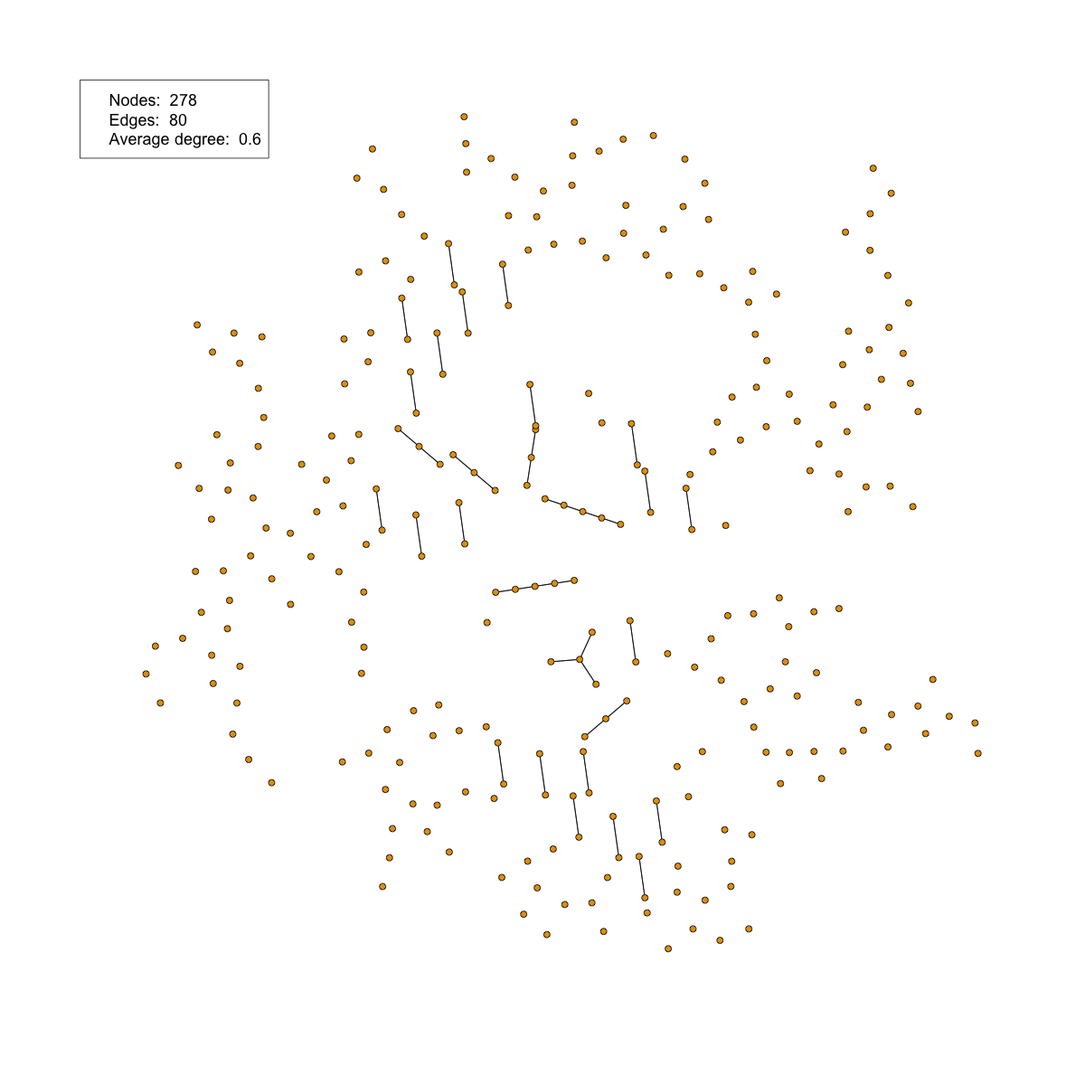
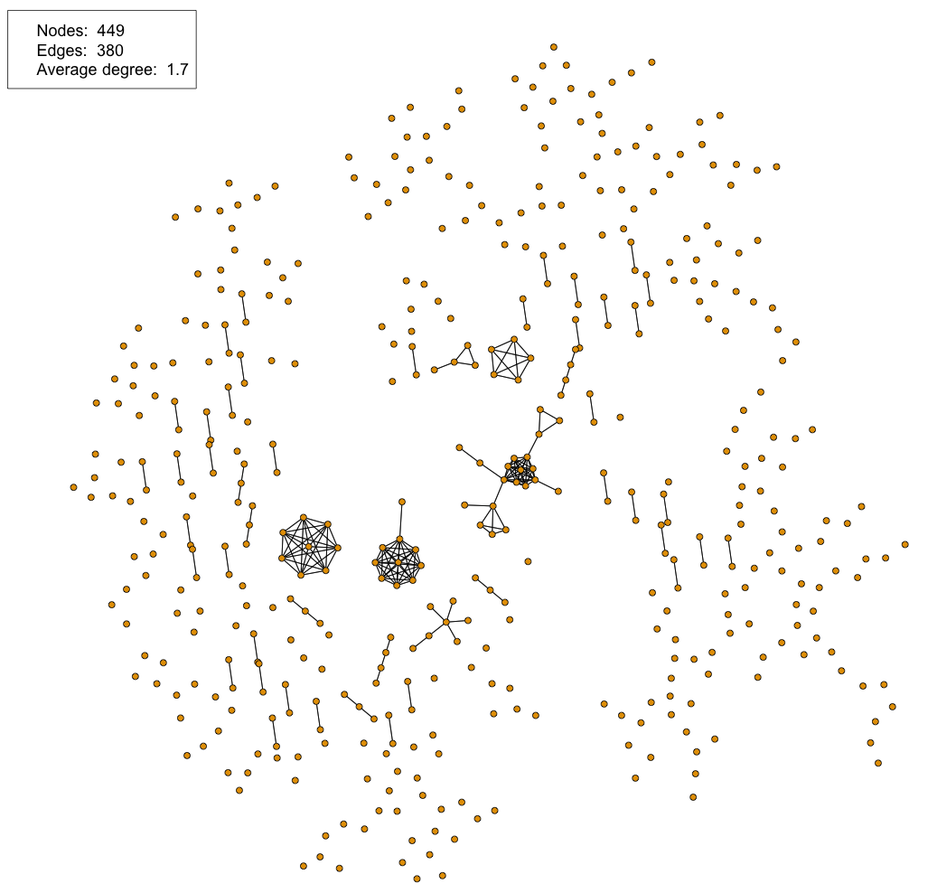
draft v0.1

diff --git a/inc/results.tex b/inc/results.tex
@@ -1,14 +1,14 @@
 \chapter{Results}
 \label{chap:results}
 
-In this chapter we will present our results from analyzing the data in the blockchain using the methods described in \cref{chap:metodology}.
+In this chapter we will present our results from analyzing the data in the blockchain using the methods described in \cref{chap:metodology}. 
 Bitcoin has a testnet used for development and testing of experimental functionality, which the LN have been tested on for longer than it has been used on the mainnet. We have used both the testnet and the mainnet in the project; our reasoning for this is the LN on the testnet is larger, and people are testing a wide array of use cases, and functionality using testnet coins without any value; on the mainnet users have Bitcoin with value, perhaps resulting in more realistic user behaviour which could impacts the data generated.
 By using both Bitcoin networks we will have one with more edge cases and more data, and one containing data more accurately reflecting normal user behaviour.
-The testnet has its own blockchain which is publicly available in the same manner as the mainnet blockchian. Collecting data from the LN as discussed in \cref{sec:ln_analysis} was done in two intervals of one week each. Creating a snapshot of the network on each block for a week results in about 1000 blocks worth of data. This should be sufficient to verify our methods of identifying relevant LN transactions, and doing this twice allowed us to make adjustments after the results of the first interval.
+The testnet has its own blockchain which is publicly available in the same manner as the mainnet blockchian. Collecting data from the LN as discussed in \cref{sec:ln_analysis} was done in two intervals of one week each. Creating a snapshot of the network on each block for a week results in about 1000 blocks worth of data. This should be sufficient to verify our methods of identifying relevant LN transactions, and doing this twice allowed us to make adjustments after the results of the first interval. 
 
 \section{Method verification with LN data}
 
-Comparing data from the LN with our data from the blockchain, provided us with results about the extent our identification methods was able to locate LN channels on the blockchain and to which degree. There was three sets of data was used in these comparisons: 
+Comparing data from the LN with our data from the blockchain, provided us with results about the extent our identification methods is able to identify LN channels on the blockchain. There was three sets of data was used in these comparisons: 
 \begin{itemize}
     \item The set \( \alpha \) , containing channels from the LN closed during the capture interval. 
     \item The set \( \beta \), containing channels from the blockchain identified using timelocked redeem scripts,
@@ -59,13 +59,19 @@ We mentioned in \cref{subsec:information_ln} how using the fact that on-chain LN
 
 While the unspent output count provides a concrete upper limit on the number of channels and therefore size of the LN, also wanted to know to which degree the amount of unspent P2WSH transactions was correlated to the size of the LN. It is clear that changes in the size of the LN will impact the number of P2WSH outputs/inputs, but there might be many other transactions not related to the LN having a larger impact. From the data we collected from the LN itself we constructed a channel count for each blockheight in the collection interval. Similarly we extracted the same block interval with the P2WSH output count from the blockchain. These two variables allowed us to compare the changes of number of channels in the LN and number of unspent P2WSH outputs. We used Kendall rank correlation coefficient \todo{check} on this data for the mainnet, which gave us a correlation coefficient of 0.73 indicating a strong positive correlation. The scatterplot for this can be seen in \cref{fig:correlation}.
 We did the same for the testnet data which resulted in a coeficient of 0.45 which is only a moderate correlation. Both tests had the same p value: p < 2.2e-16.
-\todo{include scatterplot for testnet?}
 
-\begin{figure}[t]
+\begin{figure}[ht]
     \centering
-    \includegraphics[width=10cm]{figures/graphs/channel_p2wsh_correlation_mainnnet.png}
+    \includegraphics[width=8cm]{figures/graphs/channel_p2wsh_correlation_mainnnet.png}
     \caption{Correlation between unspent P2WSH outputs and channels open in the LN}
     \label{fig:correlation}
+\end{figure}
+
+\begin{figure}[ht]
+    \centering
+    \includegraphics[width=8cm]{figures/graphs/channel_p2wsh_correlation_testnet.png}
+    \caption{Correlation between unspent P2WSH outputs and channels open in the LN}
+    \label{fig:correlation_testnet}
 \end{figure}
 
 
@@ -74,22 +80,20 @@ We did the same for the testnet data which resulted in a coeficient of 0.45 whic
 Using our software and the timelocked redeem scripts method for identifying channels we have parsed the blockchain on both mainnet and the testnet to the point before any P2WSH transactions and therefore channels. The result of this is data about every unilaterally closed channel that has existed. Statistics about the channels we identified can be found in \cref{subgraph_stats}. This include the number of channels fund and stats about their value and lifetime. The value of the channels is given in satoshis, with 100,000,000 satoshis being one Bitcoin. The One clear difference between the mainnet and testnet is the value used for each channel, as we briefly mentioned before coins on the testnet has no value to people, so it would be natural that they are more liberal when creating channels. 
 \\
 
-COMMENT: in table below i also have the same data from LN collection, so i can add in extra column so we can see if the stats are similar for bc data and ln.
-
 \begin{table}[]
 \centering
 \caption{Value and lifetime for channels}
 \label{subgraph_stats}
-\begin{tabular}{|l|c|c|}
+\begin{tabular}{|l|c|c|c|c|}
 \hline
-                                             & \textbf{Mainnet} & \textbf{Testnet} \\ \hline
-\textbf{Total channels found}                & 3 400            & 7 755            \\ \hline
-\textbf{Average Channel value}               & 412 647          & 7 000 458        \\ \hline
-\textbf{Median channel value}                & 100 000          & 5 000 000        \\ \hline
-\textbf{Standard Deviation Channel value}    & 1 296 102        & 7 096 572        \\ \hline
-\textbf{Average channel lifetime}            & 1 438            & 2 282            \\ \hline
-\textbf{Median channel lifetime}             & 602              & 396              \\ \hline
-\textbf{Standard Deviation channel lifetime} & 2 017            & 5 545            \\ \hline
+                                             & \textbf{Mainnet} & \textbf{LN Mainnet}& \textbf{Testnet} & \textbf{LN testnet} \\ \hline
+\textbf{Sample size (channels)}                & 3 778            & 3 400           & 7 755               & 251            \\ \hline
+\textbf{Average Channel value}               & 412 647          & 412 647         & 7 000 458            &7 758 942       \\ \hline
+\textbf{Median channel value}                & 100 000          & 100 000         & 5 000 000            & 5 000 000        \\ \hline
+\textbf{Standard Deviation Channel value}    & 1 296 102        & 1 296 102       & 7 096 572            & 7 191 958        \\ \hline
+\textbf{Average channel lifetime}            & 1 438            & 1 438           & 2 282                & 1 269            \\ \hline
+\textbf{Median channel lifetime}             & 602              & 602             & 396                  & 312              \\ \hline
+\textbf{Standard Deviation channel lifetime} & 2 017            & 2 017           & 5 545                & 4 059            \\ \hline
 \end{tabular}
 \end{table}
 
@@ -97,7 +101,6 @@ In \cref{channel_input_output} we see the distribution for the number of inputs 
 This difference is also present when we checked how many channels had the same number of inputs as outputs. On the mainnet 60\% of channels found have the same number of inputs as outputs, while on the testnet this is 49\%. 
 \\
 
-COMMETN: planning on adding something about HTLC's. This would impact outputs of channels to give more meaning to these stats.
 \begin{table}[]
 \centering
 \caption{Percentages of input - output count for channels}
@@ -116,23 +119,81 @@ COMMETN: planning on adding something about HTLC's. This would impact outputs of
 \end{tabular}
 \end{table}
 
-\section{Clustering}
+\section{Linking}
 
-COMMENT: Below is the channel network graph from ln and the same graph created by linking channels found on the blockchain.
-Results in blockchain graph is wrong, so will update when software method is fixed.
+We also implemented the linking methods using the heuristics described in \cref{sec:linking}, allowing us to test their effectiveness.
+The linking was done, both on the set of channel graphs found during the LN collection intervals, and the total set of channels found when parsing the blockchain. In \cref{key_reuse_table} we can see the findings with regards to key reuse, when checking the entire set of channels on testnet and mainnet. Using the 3 778 channels we found on the mainnet, we extracted a total of 26270 unique keys, with 1471 or 5.5\% of these found multiple times. These keys combined where reused 3 062 times, which if the key reuse was evenly distributed in regards to the channel graphs, each channel graph would have 0.8 keys used in another channel graph. We have similar results for the testnet, where 7.2 of the keys found where reused, and 0.9 reused keys per channel graph. As discussed in \cref{sec:linking} regarding key reuse: key reuse within the same channel graph does not let us allow to link channels, but our results below does not take this into account, as we will address it later in this section.
 
-will also add table contaning number of channels linked, how many where linked using which heuristic, prevelance of key reuse, and talk about some outliers.
+\begin{table}[ht]
+\centering
+\caption{Key reuse in channel graphs}
+\label{key_reuse_table}
+\begin{tabular}{|l|c|c|}
+\hline
+                                                   & \textbf{Mainnet} & \textbf{Testnet} \\ \hline
+\textbf{Unique Keys found}                         & 26270          & 47182            \\ \hline
+\textbf{Unique keys reused}                        & 1471               & 3407             \\ \hline
+\textbf{Instances of key reuse}                    & 3062             & 7565             \\ \hline
+\textbf{Maximum number of reuses for a single key} & 23               & 171              \\ \hline
+\textbf{Average reuse of keys}                     & 2              & 2.2              \\ \hline
+\end{tabular}
+\end{table}
 
-\begin{figure}[h]
+We also used the two other heuristics on the channel sets, finding how many channels we where able to link using these. The results of this is shown in \cref{table:connections}. For heuristic one, where we found directly connected graphs trough outputs - inputs, we have separate results for each possible output which can be the source of such a link. We discovered a clear difference between the different outputs: the outputs from the founding transactions provide 50\% on the testnet, and 60\% percent on the mainent, of all found connections using heuristic one, compared to 2.1\% or less for the outputs from the closing transactions. The outputs from the timelocked transactions have 30\% and 33\% on the mainent and testnet respectively. One possible explanation for this difference has to do with the value of the outputs: closing and timelocked outputs are one parties value from the channel, meaning the value of these outputs is limited to the channel balance of participant owning them; outputs from the founding transaction on the other hand, is used to transfer change resulting from the output spent to found the channel, which has no size limit, meaning a output many times the value of the channel can be used. Unless using multiple inputs to found a channel, using a output from closing or timelocked transaction to create a new channel, will limit the value of the founding input to the balance in the previous channel. A possible reason for the difference between closing and timelocked outputs could be the recommendation to spend timelocked outputs discussed in \cref{sec:linking}, which if closing many channels unilatirally at one time, makes consolidation of all timelocked outputs into one timelocked transaction a natural thing to do; this would cause graph overlap, but also create a high value output from the timelocked transaction which could be used to found new channels. Heuristic 3 which used graph overlap or mutli-input timelocked transactions provided 12\% on mainnet, and 24\% on the testnet total connections found using both heuristic two and three.
+
+\begin{table}[ht]
+\centering
+\caption{Relations found between channel graphs}
+\label{table:connections}
+\begin{tabular}{|l|c|c|}
+\hline
+                                       & \textbf{Mainnet} & \textbf{Testnet} \\ \hline
+\textbf{Total relations found}       & 1620            & 5628             \\ \hline
+\textbf{Founding output relations}   & 975               & 2828             \\ \hline
+\textbf{Closing output relations}    & 30              & 2                \\ \hline
+\textbf{Timelocked output realtions} & 422               & 1439             \\ \hline
+\textbf{Graph overlap relations}     & 193               & 1359             \\ \hline
+\end{tabular}
+\end{table}
+
+If we combine our results on the channel sets using all three heursitcs, we get a total of 4682 relations between the channel graphs in the mainnet. This enabled us to crate 4426 links between channels, becasue 71 of the relations where self relations resulting from key reuse within the same graph, and 185 redundant relationships-i.e., more than one relationship between the same channel graph with different heuristics. The set of linked channels can be seen visualized in \cref{fig:cg_mainnet_full}, where we have created a channel network as discussed in \cref{sec:linking}. The network consists of 2268 smaller components, with each node having a average degree of 2.2. While as mentioned this graph does not distinguish users, we can based on how these components is structured reveal additional information about the users participating in the channels. 
+As edges represent at least one common user being present both nodes, we can create the property: for adjacent nodes there can be at most three different users, and at least two users participating. This means if the distance between vertices is more than one, we can no longer be sure of common user participation, but we cannot rule it out either. More importantly, it has a impact on a complete components-i.e., every node is connected to every other node. Because the property must hold for every node in such a complete component, there are only two possibilities with regard to user participation: there can be at most three total users in the component, or that one users participates in all nodes, but with a different second user in each, resulting in number of nodes plus one total users.
+We can see a few examples of such components in \cref{fig:cg_mainnet_full}, and some components having a similar structure, but also having some additional nodes which is not part of this highly connected core.
+\\
+
+\begin{figure}[ht]
     \centering
-    \includegraphics[width=14cm]{figures/graphs/cg_ln_mainnet_run1.png}
-    \caption{Linked channels from LN mainnet run1}
-    \label{fig:channelGraphLNTS}
+    \includegraphics[width=14cm]{figures/graphs/cg_bc_mainnet_full.png}
+    \caption{Channel network for mainnet}
+    \label{fig:cg_mainnet_full}
 \end{figure}
 
-\begin{figure}[h]
+We also did the same as discussed in the previous paragraph for the testnet, resulting in blabllablalblabb.
+The channel network shown in \cref{fig:cg_testnet_full} is more connected than the mainnet in \cref{fig:cg_mainnet_full}, with the testnet network having over twice as many nodes, but both having between 2 000 and 3 000 components. We can see this difference clearly with the large component in the middle of the testnet graph. As the LN is one network, it should consist of one dynamic component, so a historic network graph should also ideally have one large component. While we can see this beginning to emerge in our testnet channel network, it is very clear in the channel network constructed using LN data as seen in \cref{fig:channel_network_LN_mainent}.
+\\
+
+\begin{figure}[ht]
     \centering
-    \includegraphics[width=14cm]{figures/graphs/cg_bc_mainnet_run1.png}
-    \caption{Linked channels from BC mainnet run1}
-    \label{fig:channelGraphLNTS}
+    \includegraphics[width=14cm]{figures/graphs/cg_bc_testnet_full.png}
+    \caption{Channel network for testnet}
+    \label{fig:cg_testnet_full}
+\end{figure}
+
+The channel network in \cref{fig:channel_network_LN_mainent} based on LN data, was created for comparing with the networks we crated based on linking blockchain information. In the LN data we collected in the intervals we used the node id, which identifies a node/user, to link the channels that node participated in. While users are easily separable by this id, we ignored this to create the same type of network as we did using the blockchain data, meaning edges only indicate common user participation, not a specified user. 
+As shown in \cref{fig:channel_network_LN_mainent} the network is highy connected with the 715 nodes having a average degree of 115. We can see that almost all nodes part of the main component, with some nodes in the center having a very high degree.
+If we compare this to the channel network in \cref{fig:channel_network_BC_mainnet}, which we cratered using the channels identified on the blockchain in the same interval, and linked using our three intervals, we can see how limited our linking capabilities are.
+
+
+\begin{figure}[ht]
+    \centering
+    \includegraphics[width=13cm]{figures/graphs/cg_ln_mainnet_run1.png}
+    \caption{Linked channels from the LN, mainnet, first interval}
+    \label{fig:channel_network_LN_mainent}
+\end{figure}
+
+\begin{figure}[ht]
+    \centering
+    \includegraphics[width=13cm]{figures/graphs/cg_bc_mainnet_run1.png}
+    \caption{Linked channels from the blockchain, mainnet, first interval}
+    \label{fig:channel_network_BC_mainnet}
 \end{figure}

diff --git a/inc/introduction.tex b/inc/introduction.tex
@@ -2,19 +2,20 @@
 \label{chap:introduction}
 
 % quick background
-Bitcoin is a electronic payment system relying on cryptography and a distributed ledger known as the blockchain \cite{nakamoto2008bitcoin}. 
-The blockchain is used to record all transactions done in the system, and is maintained by every node in the network. New transactions is added to the blockchain by spending computational power; making the transactions practically irreversible as the blockchain grows and more computational power is used, and thus removes the need for trusted third parties to verify transactions. Such a decentralized payment solution does however not scale very well. It can maximally handle about 7 transaction per second \todo{add ref}, compared to visa and other centralized payment systems which can handle ? \todo{ref and numb}.
-A proposed solution to increase the capacity and help scale Bitcoin is payment channel networks. Such a network would allow users to do  transactions without them being published in the Bitcoin network and therefore not included in the blockchain, which is why they are known as off-chain transactions. This allows for more transactions being done without increasing the capacity of the Bitcoin system itself. It can be thought of as a layer on top of Bitcoin since it require the Bitcoin system and builds on top of it. As the name implies it consist of networked payment channels. A payment channel is a one to one channel allowing the two participants to exchange founds between each other. A network is created by having multiple channels with different users and allowing for transfers to be done across multiple channels-e.g., Alice can pay Bob without having a channel directly connecting them, but using intermediary channels. All transactions done inside this network does not impact the Bitcoin network, however the opening and closing of channels does.
+Bitcoin is a peer-to-peer electronic payment system relying on cryptography and a distributed ledger known as the blockchain~\cite{nakamoto2008bitcoin}. 
+The purpose of the blockchain is to record all transactions done in the system, and is maintained collectively by the network. New transactions is added to the blockchain by spending computational power; making the transactions practically irreversible as the blockchain grows and more computational power is used, and thus removes the need for trusted third parties to verify transactions. Such a decentralized payment solution does however not scale very well. It can handle maximally around 7 transaction per second \cite{poon2015bitcoin}, compared to visa and other centralized payment systems which can handle up to 47,000 transactions per second \cite{visa_stress}.
+A proposed solution to help scale the Bitcoin system is payment channel networks. Such a network allows users to do transactions without them being published in the Bitcoin network, and they are therefore not included in the blockchain, which is why they are known as off-chain transactions. This allows for more transactions being done without increasing the capacity of the Bitcoin system itself. It can be thought of as a layer on top of Bitcoin, because it requires the Bitcoin system and builds on top of it. As the name implies it consists of networked payment channels. A payment channel is a one-to-one channel allowing two participants to exchange founds between each other. A network is created by connecting multiple channels with different users, and allowing for transfers to be done across multiple channels-e.g., Alice can pay Bob without having a channel directly connecting them, but using intermediary channels. These off-chain transactions done inside this network does not impact the Bitcoin network, only the management of the payment channels does.
 \\ 
 
 %problem description
-Because the blockchain is a public authoritative record of transactions done within the Bitcoin system, it has been used in research projects focusing on anonymity and privacy of users using the system~\cite{reid2013analysis,meiklejohn2013fistful}. As the data in the blockchain provides the whole picture of how founds have moved, the focus of earlier research has been to analyze the data on the blockchain group this activity to the relevant users. This is done by grouping and contextualizing information, and successfully doing so will provide one with a record of all user activity. 
-The Lightning Network (LN) as described in the paper by Poon and Dryja~\cite{poon2015bitcoin} is a payment channel network currently used with Bitcoin \todo{ref?}. The use of this second layer network allowing transactions to be done off-chain makes this type of blockchain analysis more difficult. The lightning network is built on top of Bitcoin there is a need for on-chain transactions which will be recorded on the blockchain, and the data contained there will always be valid, but founds can move inside this second network which will not be observable on the blockchain in the same degree as previously. Jordi Herrera-Joancomartí and Cristina Pérez-Solà~\cite{herrera2015research} state that the methods used for blockchain analysis in earlier research is no longer effective if payment channel networks would be widely used. If the Lightning Network (LN) is widely used, the majority of transactions would be done off-chain and only on-chain transactions would be the ones required for the payment channel to operate. Giulio Malavolta et al.~\cite{malavolta2017concurrency} identifies some possible privacy implications of the on-chain payment network transactions, so there might be possibilities of using blockchain data related to these networks to compromise user privacy. Now that there are functioning payment channel networks such as the Lightning network we can explore what information will be available from the on-chain transactions of the LN, and not just in a theoretical manner but the impact of real user behaviour and large data sets. This paper will explore the possibility of blockchain analysis in relation to the lightning network, and to what degree it can impact privacy of the users. Doing this while the technology is still in a developmental stage and not yet widely used can be important as resolving potential privacy risks early is desirable.
+Because the blockchain is a public authoritative record of transactions done within the Bitcoin system, it has been used in research projects focusing on anonymity and privacy of users using the system~\cite{reid2013analysis,meiklejohn2013fistful}. As the data in the blockchain provides a complete record of how founds have moved, the focus of the research projects has been to analyze the data on the blockchain, and determine user involvement in transactions and founds. This is done by grouping and contextualizing information, and successfully doing so will provide one with a record of all user activity. 
+The Lightning Network (LN) as described in the paper by Poon and Dryja~\cite{poon2015bitcoin} is a payment channel network currently used with Bitcoin. The use of this second layer network allowing transactions to be done off-chain, makes this type of blockchain analysis more difficult. As the lightning network (LN) is built on top of Bitcoin, there is a need for on-chain transactions to manage the payment channels it consists of. These on-chain transactions from the LN will be recorded on the blockchain just other Bitcoin transactions, and the data contained in them will be validated same as any other transactions; they will however not provide a explicate record of how founds have moved inside the LN, unlike the Bitcoin transactions do for the Bitcoin network.
+This means one can still analyze the blockchain to see how founds move inside the Bitcoin network, but one can not do this to the same degree for the LN. Jordi Herrera-Joancomartí and Cristina Pérez-Solà~\cite{herrera2015research} points this out by stating the methods used for blockchain analysis in earlier research is no longer effective if payment channel networks would be widely used. Because in the case of the LN being widely used, the majority of transactions would be done off-chain and only on-chain transactions would be the ones required for the payment channel to operate. Giulio Malavolta et al.~\cite{malavolta2017concurrency} identifies some possible privacy implications of the on-chain transactions from payment channels networks, so there might be possibilities of using blockchain data related to payment channels networks, to reveal user information. Now that there are functioning payment channel networks such as the Lightning network we can explore what information will be available from the on-chain transactions of the LN; not just in a theoretical manner, but also the impact of real user behaviour and large data sets. This thesis we will explore the possibility of blockchain analysis in relation to the lightning network, and to what degree it can impact privacy of the users. Doing this while the technology is still in a developmental stage and not yet widely used can be important as resolving potential privacy risks early is desirable.
 \\
 
 This project will explore the implications of LN from the blockchain perspective.
-We will attempt to answer our research question which is: what information from the LN is available in the Bitcoin system and how does it impact the privacy of the users?
-Our main goal which will allow us to answer this is to create a method for identifying transactions related to the lightning network in the blockchain, and discover what information doing this will provide us.
-We will also explore the relevance of methods used in previous research projects and how they could potentially be adapted for this new task. Additionally we will identify relevant privacy notions for information in this domain.
+We will attempt to answer our research question which is: what information from the LN is available in the Bitcoin system, and how does it impact the privacy of the users?
+Our main goal, which will allow us to answer this, is to create a method for identifying transactions related to the lightning network in the blockchain, and discover what information doing this will provide us with.
+We will also explore the relevance of methods used in previous research projects, and how they could potentially be adapted for this new task. Additionally we will identify relevant privacy notions for information in this domain.
 
 % maybe section on how anonymity is handled within ln later??

diff --git a/inc/conclusion.tex b/inc/conclusion.tex
@@ -1,11 +1,19 @@
 \chapter{Conclusion}
 \label{chap:conclusion}
 
-This is where you provide an overview of the thesis now that it is finished.  What are the critical things that can be learnt from the thesis for the reader.
+In this project we have explored the impact of the LN from the blockchain analysis perspective. As stated previously: the LN is layered on top of Bitcoin, meaning there is no real change in the Bitcoin system. Old methods of and discoveries related to blockchain analysis, not affected by user behaviour, is thus still valid. Taking the LN into consideration allows us to provide some context to the blockchain and the transactions within. In addition to seeing the blockchain as the ordering and consensus mechanism for the Bitcoin network, we must also see it as the mechanism for facilitating the payment channels crating the LN. The LN allows for transfers of Bitcoin, using Bitcoin transactions, and routed across multiple payment channels, but without being recorded in the blockchain. As these transfers is beyond the reach of blockchain analysis methods, and we have no method for inferring them from the LN on-chain transactions, the goal of previous projects to reveal user activity, can no longer be applied in our scenario. Instead we are limited to what information the on-chain transactions contain, which is payment channel information, so instead of revealing activity within the LN, we are limited to general information and structure of the LN. It is theretofore clear, from the blockchain analysis perspective, that doing transfers within the LN provides much better privacy than doing all transfers on-chain.
+\\
 
-This is additional text.
+We have in this project described methods for identifying on-chain LN transactions, and explored their effectiveness by comparing results with the LN. While unilaterally closed channels enable us to identify on-chain LN transactions, the lack of uniqueness in transactions resulting from other channels makes identification unreliable. We have also shown how previous heuristics used for linking information can be adapted to linking channels. While they allow for some linking to be done, comparing our results to the LN generated data shows how small percent of connections we can actually link. Our linking was however limited to using data from the channel graphs, and did not take into account any other transactions in the blockchain. If this was done, linking all keys, possibly allowing for users within channel graphs to be differentiated, one could recreate parts of the structure of the LN using this. Such a results, and our results to a degree can reveal how users connect within the LN, which shows us how transfers can be done, but without revealing how they are actually done.
+But perhaps the fact that users choose to crate channels with some users instead of others, is something that can be used.
+It is apparent that if one wants information about the LN, it is in most cases better to simply get this directly from the LN, instead of finding it on the blockchain. But as we previously have pointed out: all LN channels needs to be anchored on the blockchain, which itself will contain verified historical data, so it can be a important source of information when exploring the LN. Additionally, blockchain analysis can be used in conjunction with other methods of analysis related to the LN, which might have need for the information which can be found on the blockchain.
 
 \section{Future Work}
 \label{sec:future}
 
-Multisple channel founding with one tx. ref mailinglist. More clustering opurtunities.
+As a emerging technology the LN and Bitcoin system is being changed and improved regularly, and because the work presented here is for the current state of these systems, any future work using elements from this project, will have to change methods and assumptions. A example is founding transactions: currently founding transactions can be used to found a single channel, but there is nothing in the way of having a single founding transaction for many channels \cite{multi_channel_founding}. This would provide additional possibilities for linking. It could also be used for identification of channels-e.g., one channel might be identified because of a timelocked output, and by finding ouputs of other channels in the founding transaction we can also identify them.
+\\
+
+One of the proposed improvements that will impact this type of work the most is channel factories \cite{burchert2017scalable}.
+The proposition is to have a additional layer between the blockchain and the payment channel network, with the purpose of creating the one-to-one payment channels which makes up the payment channel network. The channel factories on this layer can manage channels, meaning payment channels no longer requires any on-chain transactions to manage. The channel factories itself requires on-chain transactions, but with such a additional layer of abstraction, allowing for many dynamic channels per on-chain transactions, the use and methods of blockchain analysis must be reassessed.
+\\

diff --git a/inc/methodology.tex b/inc/methodology.tex
@@ -210,7 +210,7 @@ These are only for linking channel graphs based on common user participation; tw
 This heuristic is simply to check if the same keys is present in different channel graphs.  
 Any key found within a channel graph is sure to belong to one of the two users participating in the channel, so if the same key can be found in another graph we know the user owning the key participated in both channels.
 This heuristic becomes useful because we are linking sets of transactions-i.e., transaction graphs representing channels. In previous work where they where linking keys, this becomes redundant as a key is obviously related to itself, but in our case we are not interested in keys as such but rather how they reveal user involvement. Because we know there is only two people participating in transactions within the channel graph, keys from any transaction inside the graph can be checked for reuse. The keys used in the founding and closing transactions clearly belongs to the participants, but with the timelocked transaction we cannot be so sure. The BOLT rfc \cite{bolt5} heavily recommends the owner to spend the timelocked output when it expires to transfer the value to a convenient address, reason being the redeem script required to spend the timelocked output, so the advanced script must be kept until the output is spent, which is inconvenient compared to having the value available in a normal P2WPKH output.
-Assuming implementations follow this recommendation, the timelocked transaction and the keys found within should only contain keys related to the user which claimed the timelocked output. 
+Assuming implementations follow this recommendation, the timelocked transaction and the keys found within should only contain keys related to the user which claimed the timelocked output. We should however note that the key reuse needs to happen in different channels, as key reuse within a single channel does not allow us to link any channels.
 \\
 
     \item \textbf{Graph connections}\\
